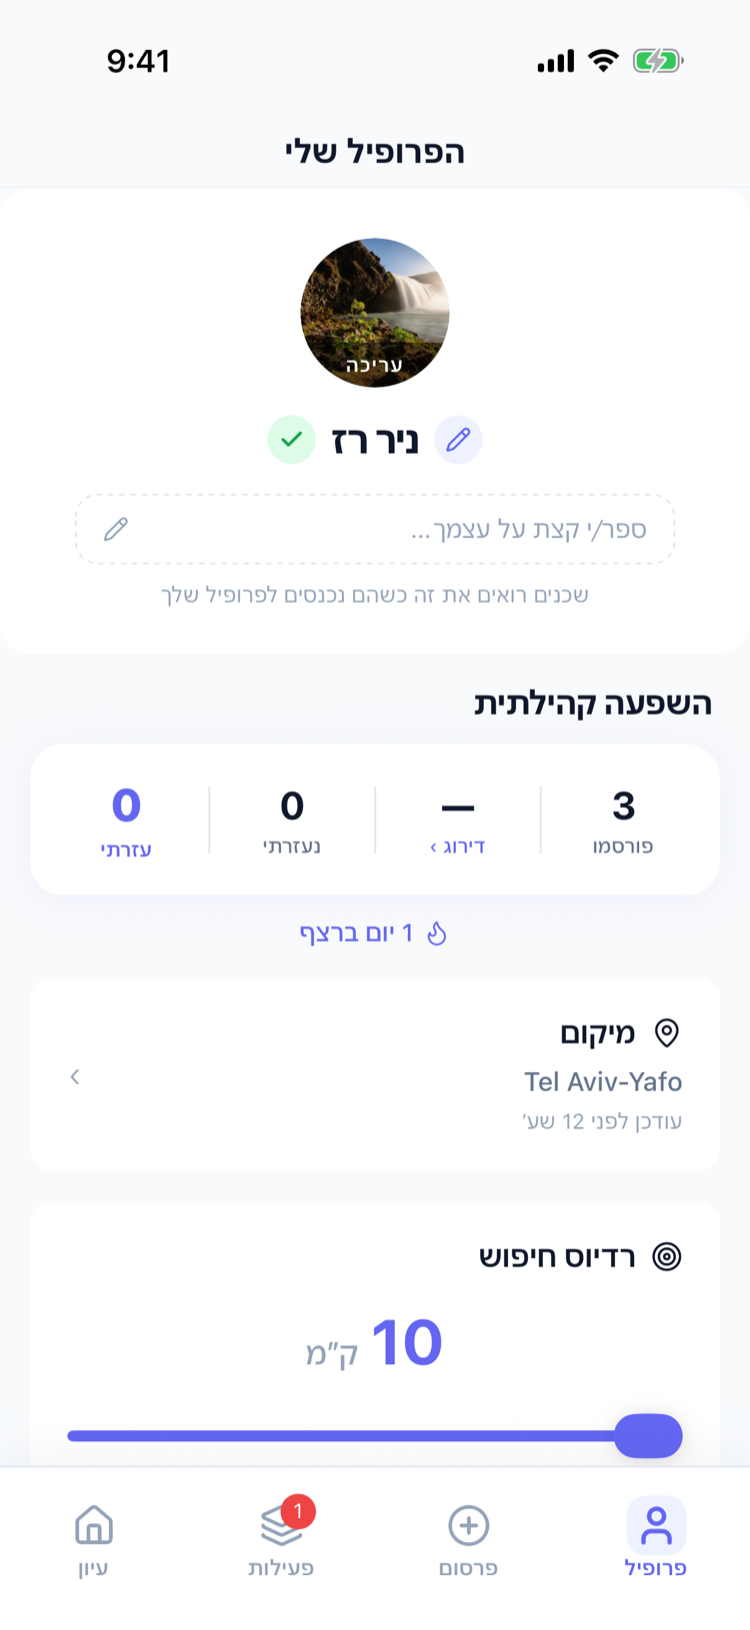
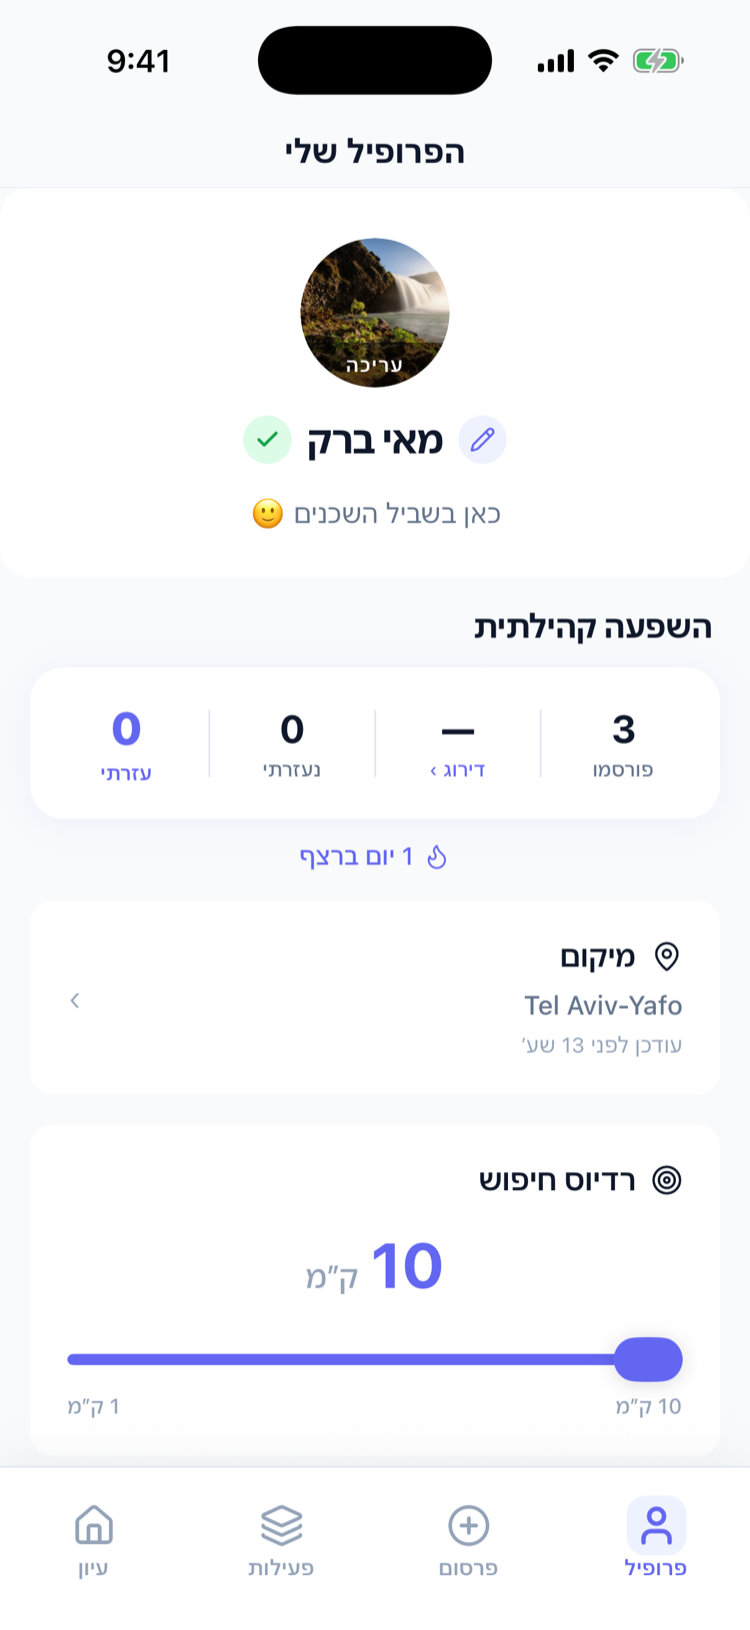
site: copy pass for the current feature set + demo-named profile screenshots
Copy (both languages) now reflects the live app: unified feed of requests AND
help offers, instant chat on offers (no approval wait), colorful card look for
photo-less posts, one-inbox Activity with share-to-neighborhood-group, read
receipts + presence + chat photos, helper gold badge, all-time neighborhood
leaderboard, approximate-area map framing (privacy), light/dark mode line.

Profile screenshots retaken: the mock demo profile is now 'מאי ברק' with a
bio - the founder's real name no longer appears anywhere on the site.

Claude-Session: https://claude.ai/code/session_01LUZEc12LCpGmJf7sgNthAB

diff --git a/index-he.html b/index-he.html
@@ -490,7 +490,7 @@
       <div class="flow-number">1</div>
       <div class="flow-emoji"><i data-lucide="pen-line"></i></div>
       <h3>פרסום בקשה</h3>
-      <p>תאר/י מה צריך, הוסף/י תמונות, סמן/י דחיפות.</p>
+      <p>מספרים מה צריך, או מה מציעים. תמונות, דחיפות, וזהו.</p>
     </div>
     <div class="flow-arrow">←</div>
     <div class="flow-step">
@@ -529,8 +529,9 @@
     <div class="section-text">
       <span class="step-badge">גלישה</span>
       <h2>הסקרולינג <span class="gradient">הנכון</span>.</h2>
-      <p class="lede">גוללים בין הבקשות בשכונה, קטגוריה, מרחק, דחיפות, תמונות, הכל בכרטיס אחד. לחיצה אחת מציעה עזרה.</p>
+      <p class="lede">גוללים בין הבקשות וההצעות בשכונה: קטגוריה, מרחק, דחיפות, תמונות, הכל בכרטיס אחד. לחיצה אחת מציעה עזרה.</p>
       <ul class="feature-list">
+        <li><span class="icon"><i data-lucide="layers"></i></span>בקשות והצעות עזרה, בפיד אחד</li>
         <li><span class="icon"><i data-lucide="hand-helping"></i></span>הצעת עזרה בלחיצה</li>
         <li><span class="icon"><i data-lucide="zap"></i></span>נטען מהר, מציג רק מה שקרוב</li>
         <li><span class="icon"><i data-lucide="ban"></i></span>מסתיר את מי שחסמתם או דיווחתם עליו</li>
@@ -548,9 +549,9 @@
     <div class="section-text">
       <span class="step-badge">תצוגת מפה</span>
       <h2>השכונה שלכם, <span class="gradient">על המפה</span>.</h2>
-      <p class="lede">מעבר לתצוגת מפה כדי לראות מי צריך עזרה ואיפה. סמלים בצבעים שונים לכל קטגוריה. לחיצה על סמל פותחת את הבקשה למטה.</p>
+      <p class="lede">מעבר לתצוגת מפה כדי לראות מי צריך עזרה ואיפה. כל פוסט מוצג כאזור משוער, אף פעם לא כתובת מדויקת. לחיצה פותחת אותו למטה.</p>
       <ul class="feature-list">
-        <li><span class="icon"><i data-lucide="map-pin"></i></span>סמלים צבעוניים לפי קטגוריה</li>
+        <li><span class="icon"><i data-lucide="shield"></i></span>אזורים משוערים, אף פעם לא כתובת מדויקת</li>
         <li><span class="icon"><i data-lucide="navigation"></i></span>המפה והכרטיס מסונכרנים</li>
         <li><span class="icon"><i data-lucide="refresh-cw"></i></span>אפשר לחזור לתצוגת כרטיסים בכל רגע</li>
       </ul>
@@ -572,6 +573,7 @@
         <li><span class="icon"><i data-lucide="hand-heart"></i></span>מפרסמים בקשה, או הצעת עזרה</li>
         <li><span class="icon"><i data-lucide="grid-3x3"></i></span>12 קטגוריות, מקניות עד תיקונים</li>
         <li><span class="icon"><i data-lucide="camera"></i></span>עד 3 תמונות מהמצלמה או מהגלריה</li>
+        <li><span class="icon"><i data-lucide="palette"></i></span>בלי תמונה? בוחרים מראה צבעוני לפוסט</li>
         <li><span class="icon"><i data-lucide="alarm-clock"></i></span>סימון רמת דחיפות</li>
       </ul>
     </div>
@@ -587,10 +589,11 @@
     <div class="section-text">
       <span class="step-badge">צ'אט</span>
       <h2>תיאום <span class="gradient">בזמן אמת</span>.</h2>
-      <p class="lede">אחרי ההתאמה נפתח צ'אט, וסוגרים ביחד איפה, מתי ואיך. הודעות מיידיות, בלי ריענון ובלי עיכוב.</p>
+      <p class="lede">אחרי ההתאמה נפתח צ'אט, וסוגרים ביחד איפה, מתי ואיך. על הצעת עזרה הצ'אט נפתח מיד, בלי המתנה לאישור.</p>
       <ul class="feature-list">
         <li><span class="icon"><i data-lucide="pencil"></i></span>חיווי הקלדה</li>
-        <li><span class="icon"><i data-lucide="check"></i></span>אישורי קריאה</li>
+        <li><span class="icon"><i data-lucide="check-check"></i></span>אישורי קריאה ונוכחות</li>
+        <li><span class="icon"><i data-lucide="image"></i></span>שולחים תמונות בצ'אט</li>
         <li><span class="icon"><i data-lucide="star"></i></span>סיום ודירוג מתוך הצ'אט</li>
       </ul>
     </div>
@@ -606,11 +609,12 @@
     <div class="section-text">
       <span class="step-badge">פעילות</span>
       <h2>הכל <span class="gradient">במקום אחד</span>.</h2>
-      <p class="lede">כל הבקשות וההצעות שלכם, פעילות והיסטוריה. אישור או דחייה בלחיצה. זום לתמונות. דירוג העוזר/ת בסיום.</p>
+      <p class="lede">אינבוקס אחד לכל השיחות, והפוסטים שלכם עם ההצעות לצידם. מאשרים או דוחים בלחיצה, ומדרגים בסיום.</p>
       <ul class="feature-list">
-        <li><span class="icon"><i data-lucide="layout-list"></i></span>טאבים: פעיל והיסטוריה</li>
+        <li><span class="icon"><i data-lucide="inbox"></i></span>כל השיחות באינבוקס אחד</li>
         <li><span class="icon"><i data-lucide="check-circle"></i></span>אישור ודחייה בלחיצה</li>
-        <li><span class="icon"><i data-lucide="party-popper"></i></span>מעבר מהיר לצ'אט אחרי אישור</li>
+        <li><span class="icon"><i data-lucide="share-2"></i></span>אין תגובות? משתפים את הפוסט לקבוצת השכונה</li>
+        <li><span class="icon"><i data-lucide="layout-list"></i></span>טאבים: פעיל והיסטוריה</li>
       </ul>
     </div>
     <div class="device-shot">
@@ -630,6 +634,7 @@
         <li><span class="icon"><i data-lucide="bar-chart-2"></i></span>עזרתי, קיבלתי, דירוג, פרסמתי</li>
         <li><span class="icon"><i data-lucide="flame"></i></span>רצף עזרה יומי</li>
         <li><span class="icon"><i data-lucide="trophy"></i></span>לוח העוזרים המובילים בשכונה</li>
+        <li><span class="icon"><i data-lucide="medal"></i></span>תג זהב לשכנים שמציעים עזרה</li>
       </ul>
     </div>
     <div class="device-shot">
@@ -642,7 +647,7 @@
 <div class="bilingual-section">
   <div class="section-label">עברית ואנגלית</div>
   <h2>אפליקציה אחת, <span class="gradient">שתי שפות</span>.</h2>
-  <p class="section-sub">עברית מלאה עם פריסת RTL, אנגלית מלאה. לחיצה אחת למעבר, האפליקציה זוכרת.</p>
+  <p class="section-sub">עברית מלאה עם פריסת RTL, אנגלית מלאה. לחיצה אחת למעבר, האפליקציה זוכרת. וגם מצב בהיר או כהה, לבחירתכם.</p>
   <div class="bilingual-phones">
     <div class="device-shot">
         <img src="screen-hebrew-browse.png" class="device-image" alt="Helpy בעברית">

diff --git a/index.html b/index.html
@@ -653,7 +653,7 @@
       <div class="flow-number">1</div>
       <div class="flow-emoji"><i data-lucide="pen-line"></i></div>
       <h3>Post a request</h3>
-      <p>Say what you need. Add photos. Set how urgent.</p>
+      <p>Say what you need - or what you can offer. Photos, urgency, done.</p>
     </div>
     <div class="flow-arrow">→</div>
     <div class="flow-step">
@@ -692,8 +692,9 @@
     <div class="section-text">
       <span class="step-badge">Browse</span>
       <h2>The right kind of <span class="gradient">scrolling</span>.</h2>
-      <p class="lede">Swipe through what your neighbors need. Category, distance, urgency, photos, all at a glance. Tap to offer help.</p>
+      <p class="lede">Swipe through what your neighbors need - and what they're offering. Category, distance, urgency, photos, all in one card. Tap to offer help.</p>
       <ul class="feature-list">
+        <li><span class="icon"><i data-lucide="layers"></i></span>Requests and help offers, one feed</li>
         <li><span class="icon"><i data-lucide="hand-helping"></i></span>Offer help in one tap</li>
         <li><span class="icon"><i data-lucide="zap"></i></span>Loads what's near you, fast</li>
         <li><span class="icon"><i data-lucide="ban"></i></span>Hides anyone you've blocked or reported</li>
@@ -711,9 +712,9 @@
     <div class="section-text">
       <span class="step-badge">Map view</span>
       <h2>See your <span class="gradient">neighborhood</span>.</h2>
-      <p class="lede">Switch to the map to see what's needed where. Pins are color-coded by category. Tap any pin, the request opens right below.</p>
+      <p class="lede">Switch to the map to see what's needed where. Every post shows as an approximate area - never an exact address. Tap one, it opens right below.</p>
       <ul class="feature-list">
-        <li><span class="icon"><i data-lucide="map-pin"></i></span>Color-coded pins by category</li>
+        <li><span class="icon"><i data-lucide="shield"></i></span>Approximate areas, never exact addresses</li>
         <li><span class="icon"><i data-lucide="navigation"></i></span>Map and card stay in sync</li>
         <li><span class="icon"><i data-lucide="refresh-cw"></i></span>Toggle back to cards anytime</li>
       </ul>
@@ -735,6 +736,7 @@
         <li><span class="icon"><i data-lucide="hand-heart"></i></span>Post a request, or an offer to help</li>
         <li><span class="icon"><i data-lucide="grid-3x3"></i></span>12 categories, from groceries to repairs</li>
         <li><span class="icon"><i data-lucide="camera"></i></span>Up to 3 photos from camera or gallery</li>
+        <li><span class="icon"><i data-lucide="palette"></i></span>No photo? Pick a colorful card look</li>
         <li><span class="icon"><i data-lucide="alarm-clock"></i></span>Mark how urgent it is</li>
       </ul>
     </div>
@@ -750,10 +752,11 @@
     <div class="section-text">
       <span class="step-badge">Chat</span>
       <h2>Coordinate in <span class="gradient">real time</span>.</h2>
-      <p class="lede">Once you match, chat to figure out the where, when, and how. Messages are instant, no refresh, no delay.</p>
+      <p class="lede">Once you match, chat to figure out the where, when, and how. On a help offer, the chat opens the moment you reach out - no waiting for approval.</p>
       <ul class="feature-list">
         <li><span class="icon"><i data-lucide="pencil"></i></span>Typing indicators</li>
-        <li><span class="icon"><i data-lucide="check"></i></span>Read receipts</li>
+        <li><span class="icon"><i data-lucide="check-check"></i></span>Read receipts &amp; presence</li>
+        <li><span class="icon"><i data-lucide="image"></i></span>Send photos in chat</li>
         <li><span class="icon"><i data-lucide="star"></i></span>Mark complete &amp; rate when you're done</li>
       </ul>
     </div>
@@ -769,11 +772,12 @@
     <div class="section-text">
       <span class="step-badge">Activity</span>
       <h2>Everything in <span class="gradient">one place</span>.</h2>
-      <p class="lede">All your requests and offers, active and past. Accept or decline with a tap. Tap any photo to zoom in. Rate your helper when the job's done.</p>
+      <p class="lede">One inbox for every conversation, with your posts and their offers right beside it. Accept or decline with a tap, rate when the job's done.</p>
       <ul class="feature-list">
-        <li><span class="icon"><i data-lucide="layout-list"></i></span>Active and history tabs</li>
+        <li><span class="icon"><i data-lucide="inbox"></i></span>Every conversation in one inbox</li>
         <li><span class="icon"><i data-lucide="check-circle"></i></span>Accept or decline offers in a tap</li>
-        <li><span class="icon"><i data-lucide="party-popper"></i></span>Quick path to chat after accepting</li>
+        <li><span class="icon"><i data-lucide="share-2"></i></span>Share a quiet post to your neighborhood group</li>
+        <li><span class="icon"><i data-lucide="layout-list"></i></span>Active and history tabs</li>
       </ul>
     </div>
     <div class="device-shot">
@@ -793,6 +797,7 @@
         <li><span class="icon"><i data-lucide="bar-chart-2"></i></span>Helped, got help, rating, posted</li>
         <li><span class="icon"><i data-lucide="flame"></i></span>Daily streak counter</li>
         <li><span class="icon"><i data-lucide="trophy"></i></span>Neighborhood helper leaderboard</li>
+        <li><span class="icon"><i data-lucide="medal"></i></span>A gold badge for neighbors who offer help</li>
       </ul>
     </div>
     <div class="device-shot">
@@ -805,7 +810,7 @@
 <div class="bilingual-section">
   <div class="section-label" style="color:#6366f1;">Hebrew &amp; English</div>
   <h2>One app, <span class="gradient">two languages</span>.</h2>
-  <p class="section-sub">Full Hebrew with right-to-left layout, full English. One tap to switch, the app remembers.</p>
+  <p class="section-sub">Full Hebrew with right-to-left layout, full English. One tap to switch, the app remembers. Light or dark mode - your choice.</p>
   <div class="bilingual-phones">
     <div class="device-shot">
         <img src="screen-browse.png" class="device-image" alt="Helpy in English">
